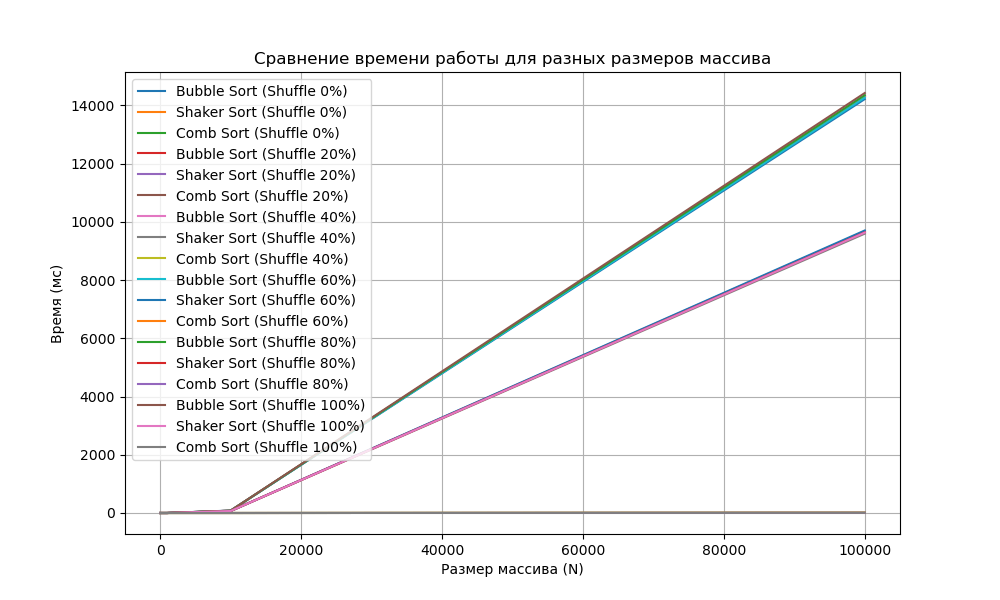
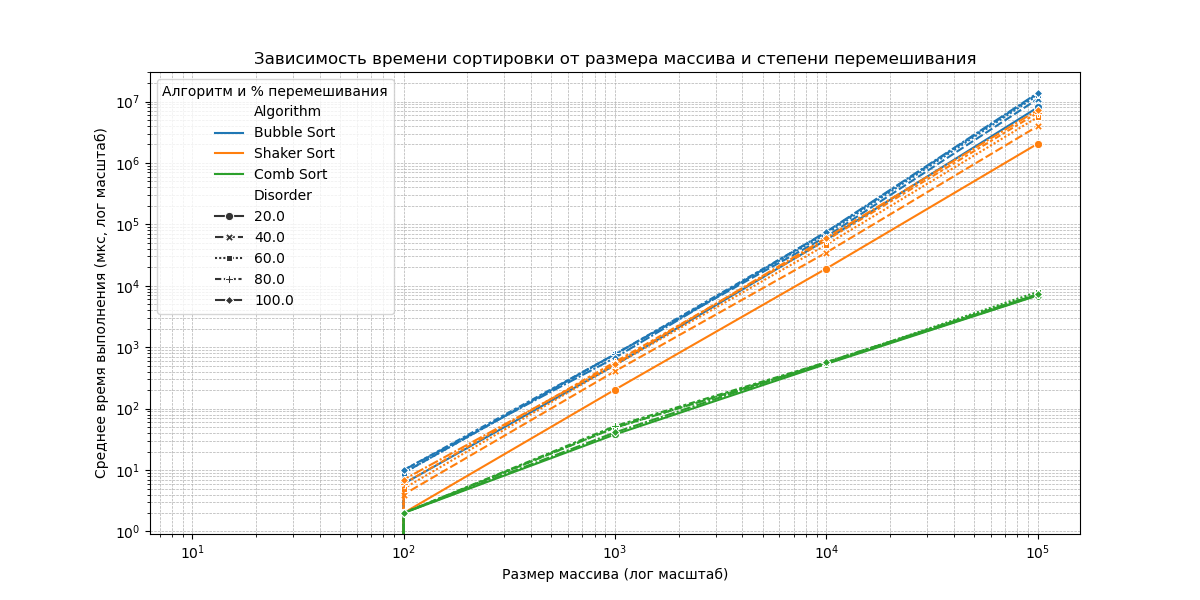
rewrited some moments

Changed region(s): [[0.031, 0.09, 0.899, 0.99], [0.682, 0.9, 0.744, 0.93], [0.155, 0.9, 0.186, 0.93]]

diff --git a/task2/problem_1/main.cpp b/task2/problem_1/main.cpp
@@ -1,80 +1,31 @@
 #include <iostream>
+#include <fstream>
 #include <chrono>
 #include <random>
-#include <cstdlib>
-#include <fstream>
 
 using namespace std;
-using namespace std::chrono;
+using namespace chrono;
 
-struct DynamicArray {
+
+class ManualArray {
+public:
     int* data;
     int size;
-    int capacity;
-
-    DynamicArray(int initial_capacity = 10) {
-        capacity = initial_capacity;
-        size = 0;
-        data = new int[capacity];
-    }
-
-    DynamicArray(const DynamicArray& other) {
-        size = other.size;
-        capacity = other.capacity;
-        data = new int[capacity];
-        for (int i = 0; i < size; ++i) {
-            data[i] = other.data[i];
-        }
-    }
-
-    DynamicArray& operator=(const DynamicArray& other) {
-        if (this == &other) return *this;  
-
-        delete[] data; 
-
-        size = other.size;
-        capacity = other.capacity;
-        data = new int[capacity];
-        for (int i = 0; i < size; ++i) {
-            data[i] = other.data[i];
-        }
-        return *this;
-    }
-
-    ~DynamicArray() {
-        delete[] data;
-    }
-
-    void push_back(int value) {
-        if (size == capacity) {
-            capacity *= 2;
-            int* new_data = new int[capacity];
-            for (int i = 0; i < size; ++i) {
-                new_data[i] = data[i];
-            }
-            delete[] data;
-            data = new_data;
-        }
-        data[size++] = value;
-    }
-
-    int& operator[](int index) {
-        return data[index];
-    }
-
-    int operator[](int index) const {
-        return data[index];
-    }
+    ManualArray(int s) : size(s) { data = new int[s]; }
+    ~ManualArray() { delete[] data; }
+    int get(int index) { return data[index]; }
+    void set(int index, int value) { data[index] = value; }
 };
 
-void bubbleSort(DynamicArray& arr) {
-    int n = arr.size;
+void bubbleSort(ManualArray& arr) {
     bool swapped;
-    for (int i = 0; i < n - 1; i++) {
+    for (int i = 0; i < arr.size - 1; ++i) {
         swapped = false;
-        for (int j = 0; j < n - i - 1; j++) {
-            if (arr[j] > arr[j + 1]) {
-                swap(arr[j], arr[j + 1]);
+        for (int j = 0; j < arr.size - i - 1; ++j) {
+            if (arr.get(j) > arr.get(j + 1)) {
+                int temp = arr.get(j);
+                arr.set(j, arr.get(j + 1));
+                arr.set(j + 1, temp);
                 swapped = true;
             }
         }
@@ -82,134 +33,101 @@ void bubbleSort(DynamicArray& arr) {
     }
 }
 
-void shakerSort(DynamicArray& arr) {
-    int n = arr.size;
+void shakerSort(ManualArray& arr) {
     bool swapped = true;
-    int start = 0, end = n - 1;
-
+    int start = 0, end = arr.size - 1;
     while (swapped) {
         swapped = false;
-        for (int i = start; i < end; i++) {
-            if (arr[i] > arr[i + 1]) {
-                swap(arr[i], arr[i + 1]);
+        for (int i = start; i < end; ++i) {
+            if (arr.get(i) > arr.get(i + 1)) {
+                int temp = arr.get(i);
+                arr.set(i, arr.get(i + 1));
+                arr.set(i + 1, temp);
                 swapped = true;
             }
         }
         if (!swapped) break;
-        end--;
-
-        for (int i = end - 1; i >= start; i--) {
-            if (arr[i] > arr[i + 1]) {
-                swap(arr[i], arr[i + 1]);
+        swapped = false;
+        --end;
+        for (int i = end; i > start; --i) {
+            if (arr.get(i) < arr.get(i - 1)) {
+                int temp = arr.get(i);
+                arr.set(i, arr.get(i - 1));
+                arr.set(i - 1, temp);
                 swapped = true;
             }
         }
-        start++;
+        ++start;
     }
 }
 
-void combSort(DynamicArray& arr) {
-    int n = arr.size;
-    int gap = n;
+void combSort(ManualArray& arr) {
+    int gap = arr.size;
+    const double shrink = 1.3;
     bool swapped = true;
-    double shrink = 1.3;
-
     while (gap > 1 || swapped) {
-        gap = (int)(gap / shrink);
+        gap = static_cast<int>(gap / shrink);
         if (gap < 1) gap = 1;
         swapped = false;
-
-        for (int i = 0; i < n - gap; i++) {
-            if (arr[i] > arr[i + gap]) {
-                swap(arr[i], arr[i + gap]);
+        for (int i = 0; i + gap < arr.size; ++i) {
+            if (arr.get(i) > arr.get(i + gap)) {
+                int temp = arr.get(i);
+                arr.set(i, arr.get(i + gap));
+                arr.set(i + gap, temp);
                 swapped = true;
             }
         }
     }
 }
 
-DynamicArray generateRandomArray(int size, int max_value) {
-    DynamicArray arr(size);
-    random_device rd;
-    mt19937 gen(rd());
-    uniform_int_distribution<> dis(0, max_value);
-
+ManualArray generateArray(int size, double disorder) {
+    ManualArray arr(size);
     for (int i = 0; i < size; i++) {
-        arr.push_back(dis(gen));
+        arr.set(i, i + 1);
     }
-    return arr;
-}
-
-DynamicArray generateShuffledArray(int size, int max_value, int shuffle_percent) {
-    DynamicArray arr = generateRandomArray(size, max_value);
-    int shuffle_count = size * shuffle_percent / 100;
-
+    int numSwaps = static_cast<int>(size * disorder);
     random_device rd;
     mt19937 gen(rd());
     uniform_int_distribution<> dis(0, size - 1);
-
-    for (int i = 0; i < size; i++) {
-        arr[i] = arr[i];
-    }
-
-    for (int i = 0; i < shuffle_count; i++) {
+    for (int i = 0; i < numSwaps; ++i) {
         int idx1 = dis(gen);
         int idx2 = dis(gen);
-        swap(arr[idx1], arr[idx2]);
+        int temp = arr.get(idx1);
+        arr.set(idx1, arr.get(idx2));
+        arr.set(idx2, temp);
     }
-
     return arr;
 }
 
-template<typename Func>
-long long measureTime(Func sortFunction, DynamicArray& arr) {
-    auto start = high_resolution_clock::now();
-    sortFunction(arr);
-    auto end = high_resolution_clock::now();
-    return duration_cast<milliseconds>(end - start).count();
-}
-
-void writeResultsToCSV(const string& filename, int size, int shuffle_percent, long long bubbleTime, long long shakerTime, long long combTime) {
-    ofstream outFile;
-    outFile.open(filename, ios::app); 
-    if (outFile.is_open()) {
-        outFile << size << "," << shuffle_percent << "," << bubbleTime << "," << shakerTime << "," << combTime << endl;
-    } else {
-        cerr << "Ошибка открытия файла!" << endl;
+// Функция измерения времени
+long long measureTime(void (*sortFunction)(ManualArray&), int size, double disorder, int iterations = 5) {
+    long long total_time = 0;
+    for (int i = 0; i < iterations; ++i) {
+        ManualArray arr = generateArray(size, disorder);
+        auto start = high_resolution_clock::now();
+        sortFunction(arr);
+        auto stop = high_resolution_clock::now();
+        total_time += duration_cast<microseconds>(stop - start).count();
     }
+    return total_time / iterations;
 }
 
 int main() {
-    string filename = "sorting_times.csv";
-    ofstream outFile;
-    outFile.open(filename);
-    outFile << "N,ShufflingPercent,BubbleSortTime,ShakerSortTime,CombSortTime" << endl;
-    outFile.close();
-
-    int max_size = 100000;
-    int step = 10;
-
-    for (int size = 10; size <= max_size; size *= step) {
-        for (int shuffle_percent = 0; shuffle_percent <= 100; shuffle_percent += 20) {
-            DynamicArray arr = generateShuffledArray(size, 99999, shuffle_percent);
-
-
-            DynamicArray arr_copy = arr;
-            long long bubbleTime = measureTime(bubbleSort, arr_copy);
-
-            arr_copy = arr;
-            long long shakerTime = measureTime(shakerSort, arr_copy);
-
-            arr_copy = arr;
-            long long combTime = measureTime(combSort, arr_copy);
-
-            writeResultsToCSV(filename, size, shuffle_percent, bubbleTime, shakerTime, combTime);
-
-            cout << "N=" << size << ", Shuffle=" << shuffle_percent << "%, "
-                 << "Bubble=" << bubbleTime << "ms, "
-                 << "Shaker=" << shakerTime << "ms, "
-                 << "Comb=" << combTime << "ms" << endl;
+    int sizes[] = {10, 100, 1000, 10000, 100000};
+    double disorders[] = {0.2, 0.4, 0.6, 0.8, 1.0};
+    
+    ofstream file("sorting_results.csv");
+    file << "Algorithm,Size,Disorder,Time" << endl;
+    
+    for (int size : sizes) {
+        cout << "\nОбработка массива размером: " << size << " элементов" << endl;
+        for (double disorder : disorders) {
+            file << "Bubble Sort," << size << "," << disorder * 100 << "," << measureTime(bubbleSort, size, disorder) << endl;
+            file << "Shaker Sort," << size << "," << disorder * 100 << "," << measureTime(shakerSort, size, disorder) << endl;
+            file << "Comb Sort," << size << "," << disorder * 100 << "," << measureTime(combSort, size, disorder) << endl;
         }
     }
+    
+    file.close();
     return 0;
 }

diff --git a/task2/problem_1/plot_graphs.py b/task2/problem_1/plot_graphs.py
@@ -1,35 +1,33 @@
-import matplotlib.pyplot as plt
 import pandas as pd
+import matplotlib.pyplot as plt
+import seaborn as sns
 
-# Загрузка данных из CSV файла
-data = pd.read_csv("sorting_times.csv")
+file_path = "sorting_results.csv"
+try:
+    df = pd.read_csv(file_path)
 
-# График для различных размеров массива
-plt.figure(figsize=(10, 6))
-for shuffle_percent in data['ShufflingPercent'].unique():
-    subset = data[data['ShufflingPercent'] == shuffle_percent]
-    plt.plot(subset['N'], subset['BubbleSortTime'], label=f'Bubble Sort (Shuffle {shuffle_percent}%)')
-    plt.plot(subset['N'], subset['ShakerSortTime'], label=f'Shaker Sort (Shuffle {shuffle_percent}%)')
-    plt.plot(subset['N'], subset['CombSortTime'], label=f'Comb Sort (Shuffle {shuffle_percent}%)')
+    df["Size"] = df["Size"].astype(int)
+    df["Disorder"] = df["Disorder"].astype(float)
+    df["Time"] = df["Time"].astype(float)
 
-plt.xlabel('Размер массива (N)')
-plt.ylabel('Время (мс)')
-plt.title('Сравнение времени работы для разных размеров массива')
-plt.legend()
-plt.grid(True)
-plt.show()
+    plt.figure(figsize=(12, 6))
+    sns.lineplot(data=df, x="Size", y="Time", hue="Algorithm", style="Disorder", markers=True)
+    plt.xscale("log")
+    plt.yscale("log")
+    plt.xlabel("Размер массива (лог масштаб)")
+    plt.ylabel("Среднее время выполнения (мкс, лог масштаб)")
+    plt.title("Зависимость времени сортировки от размера массива и степени перемешивания")
+    plt.legend(title="Алгоритм и % перемешивания")
+    plt.grid(True, which="both", linestyle="--", linewidth=0.5)
+    plt.show()
 
-# График для степени упорядоченности
-plt.figure(figsize=(10, 6))
-for size in data['N'].unique():
-    subset = data[data['N'] == size]
-    plt.plot(subset['ShufflingPercent'], subset['BubbleSortTime'], label=f'Bubble Sort (Size {size})')
-    plt.plot(subset['ShufflingPercent'], subset['ShakerSortTime'], label=f'Shaker Sort (Size {size})')
-    plt.plot(subset['ShufflingPercent'], subset['CombSortTime'], label=f'Comb Sort (Size {size})')
-
-plt.xlabel('Степень упорядоченности (%)')
-plt.ylabel('Время (мс)')
-plt.title('Сравнение времени работы для разных степеней упорядоченности')
-plt.legend()
-plt.grid(True)
-plt.show()
+    plt.figure(figsize=(12, 6))
+    sns.lineplot(data=df, x="Disorder", y="Time", hue="Algorithm", style="Size", markers=True)
+    plt.xlabel("Степень перемешивания массива (%)")
+    plt.ylabel("Среднее время выполнения (мкс)")
+    plt.title("Зависимость времени сортировки от степени перемешивания массива")
+    plt.legend(title="Алгоритм и размер массива")
+    plt.grid(True, linestyle="--", linewidth=0.5)
+    plt.show()
+except FileNotFoundError:
+    print(f"Ошибка: Файл {file_path} не найден. Сначала запустите C++ программу для генерации данных.")
